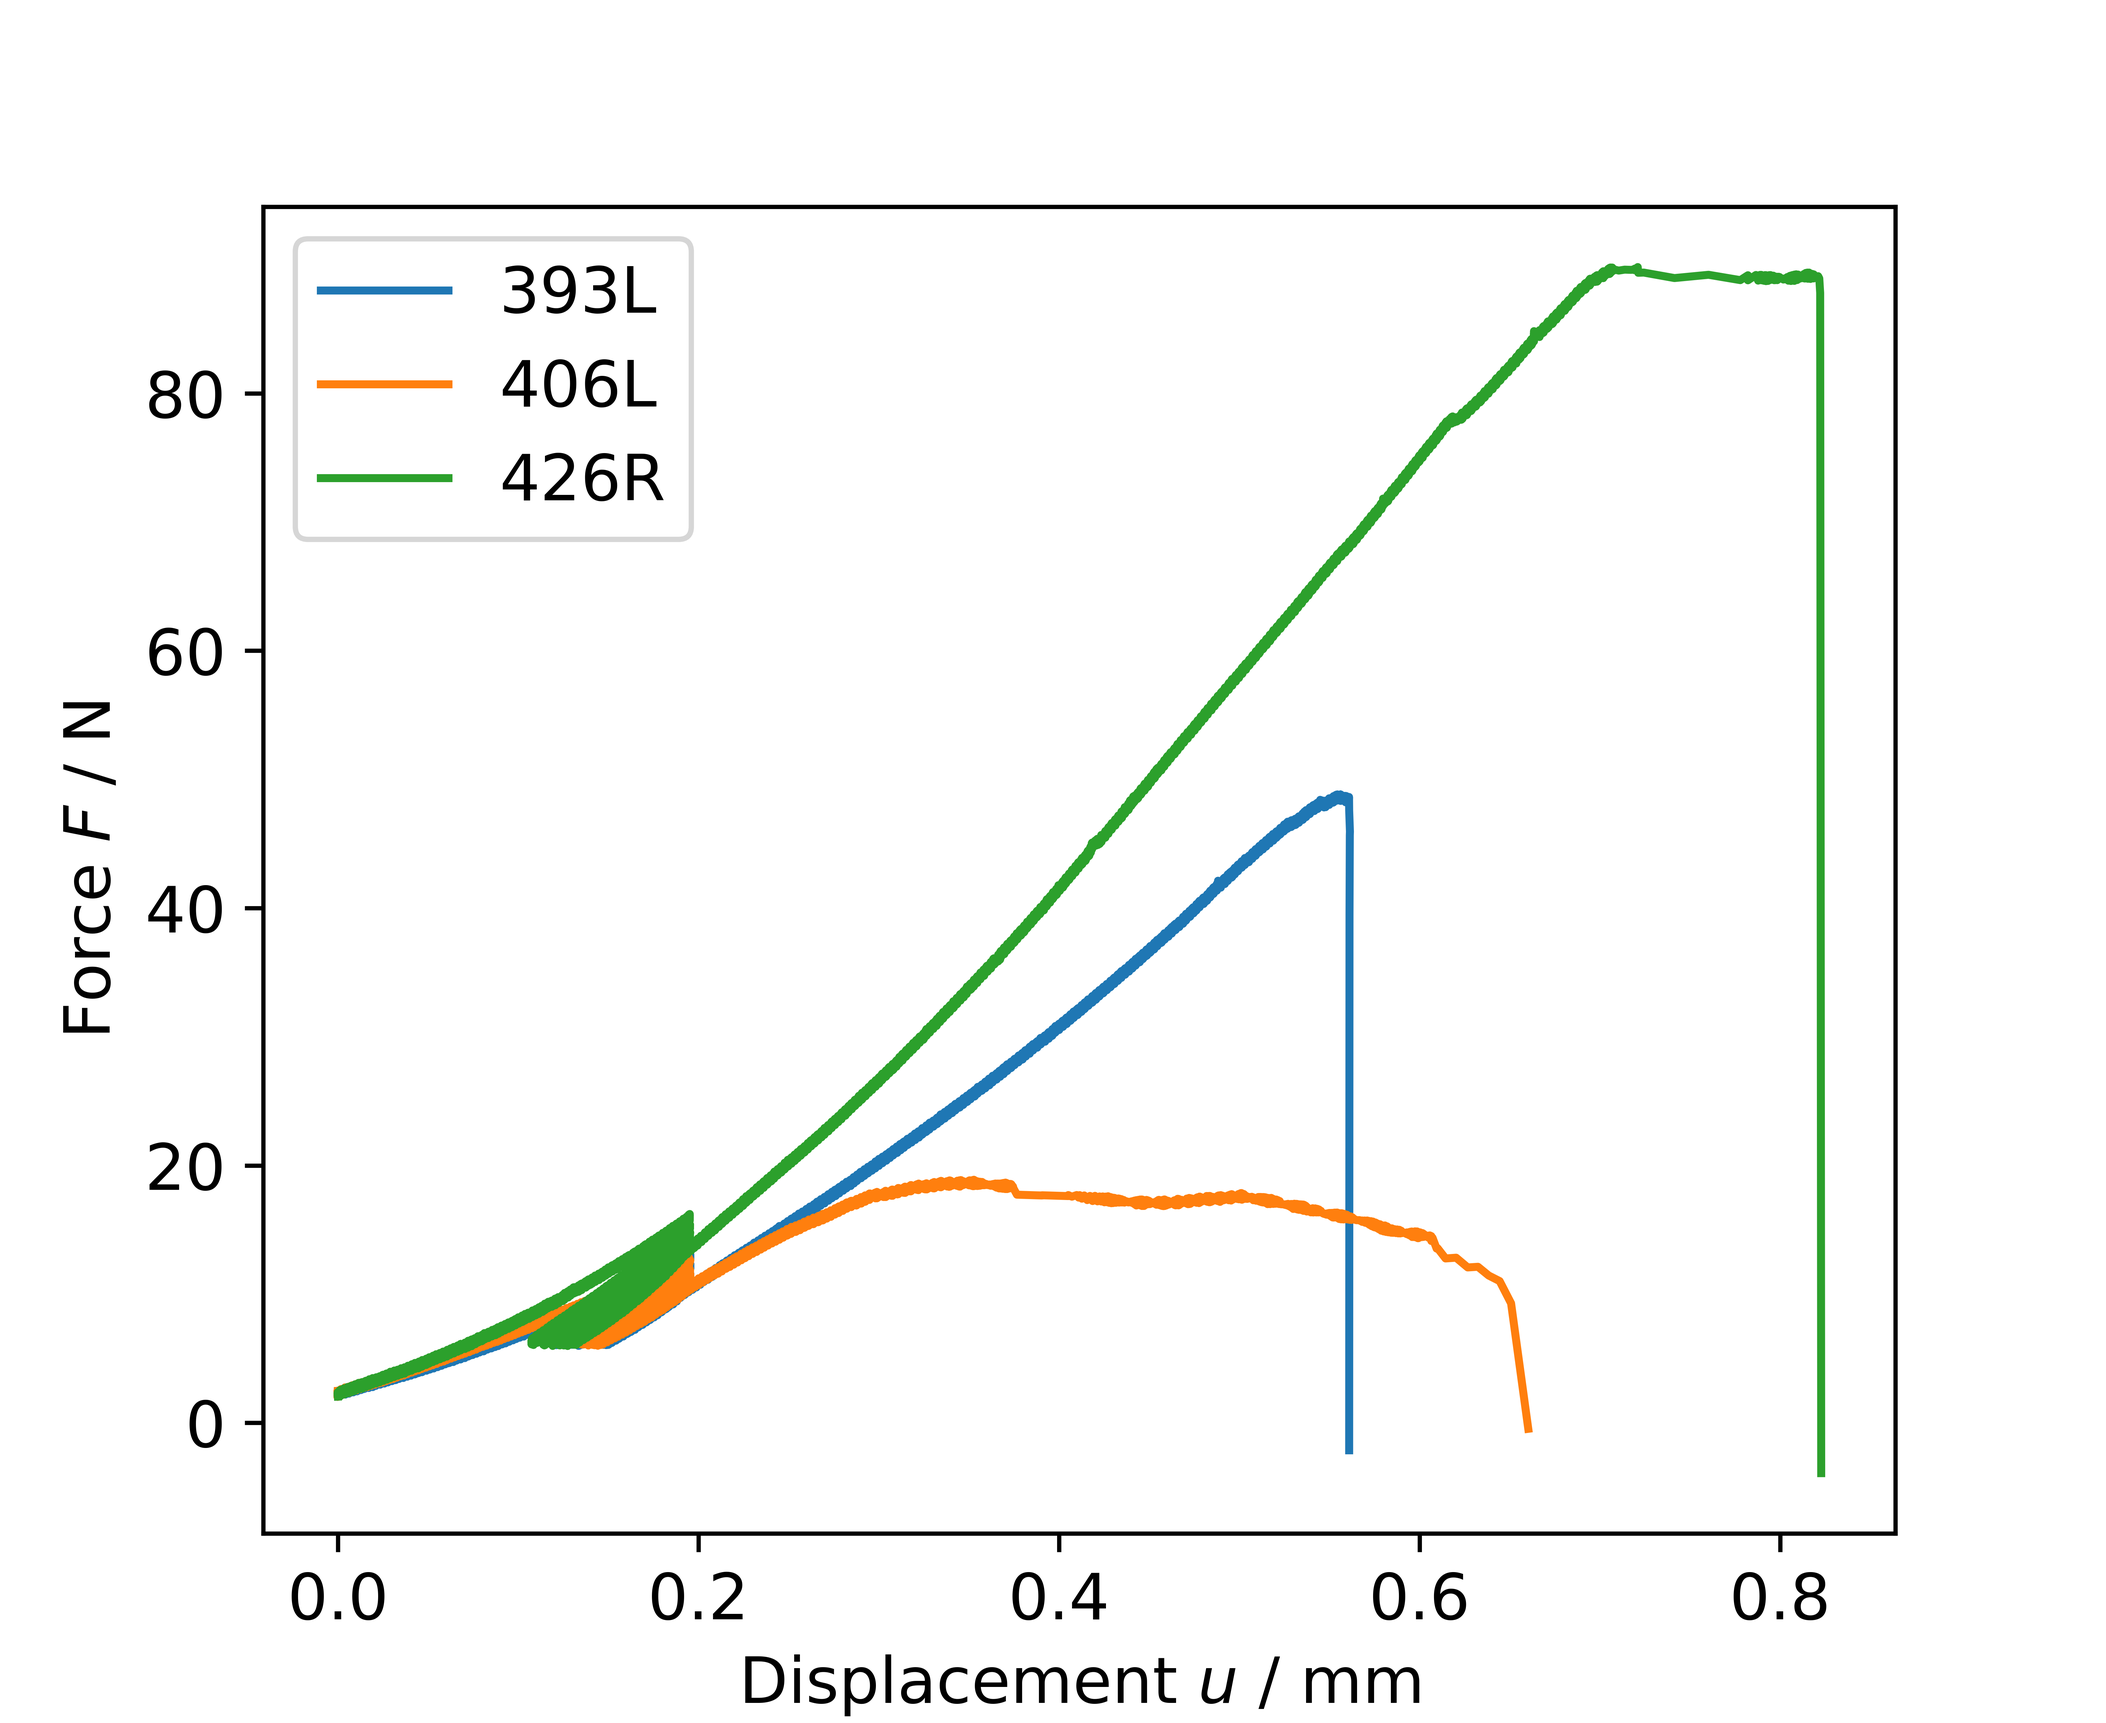
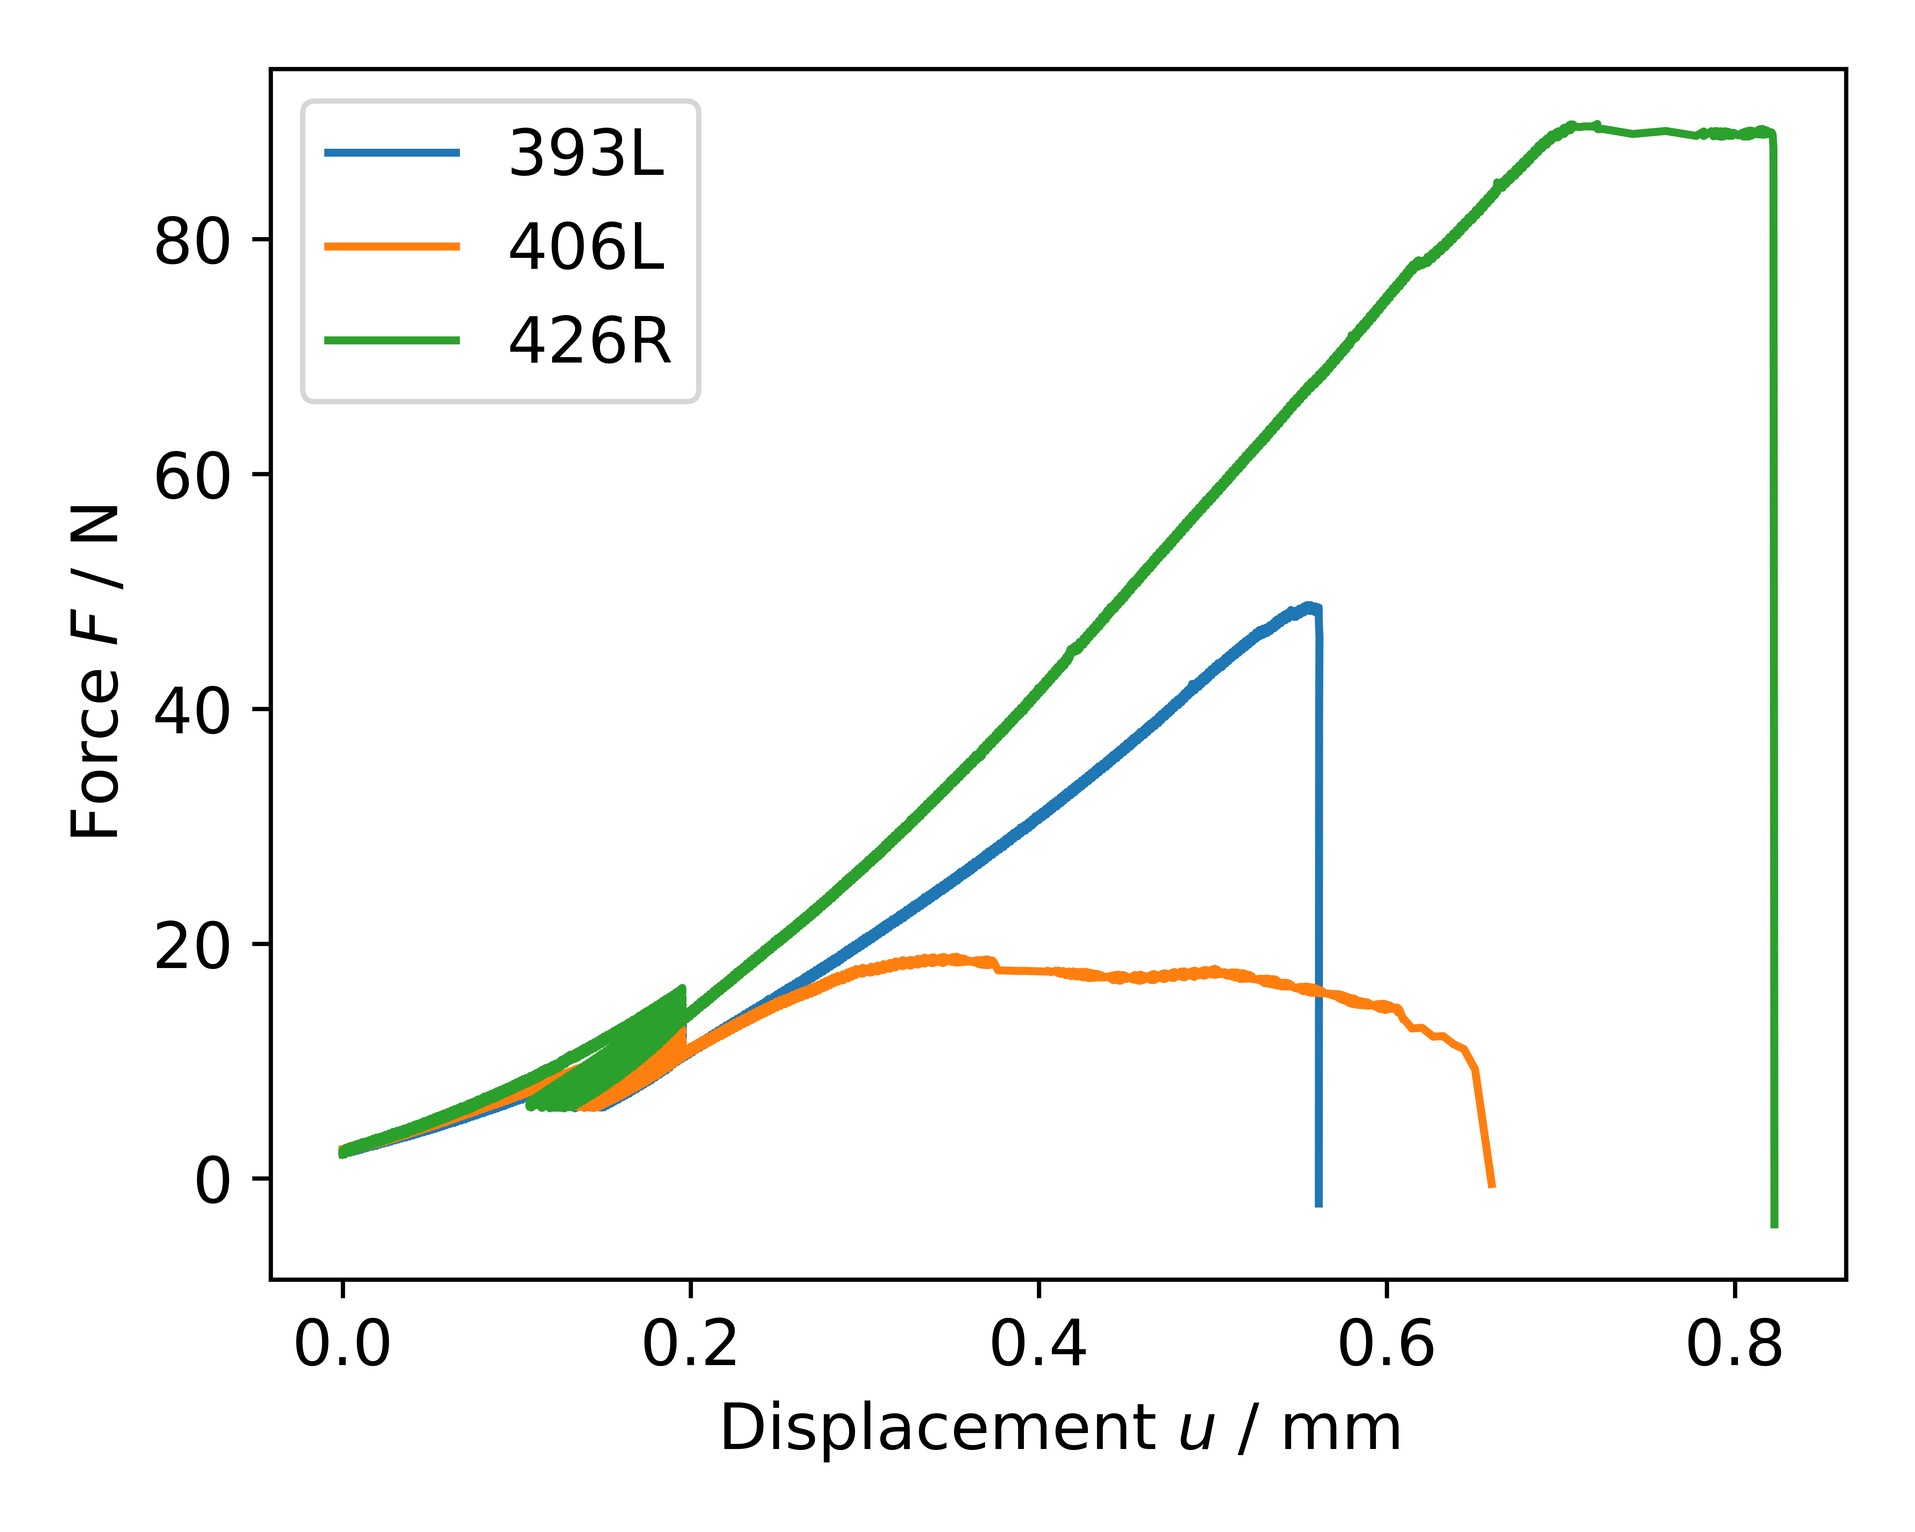
change certain symbols and expressions

diff --git a/03_Scripts/read_failure_MTS.py b/03_Scripts/read_failure_MTS.py
@@ -399,14 +399,12 @@ plt.plot(df_426R['disp_ext'][:41256], df_426R['force_lc'][:41256], label='426R')
 # plt.plot([], ' ', label='Sample ID: ' )
 plt.ylabel('Force $F$ / N')
 plt.xlabel('Displacement $u$ / mm')
+plt.subplots_adjust(left=0.17, bottom=0.15, right=0.95, top=0.95)
 plt.legend()
-plt.autoscale()
+plt.rcParams['figure.figsize'] = (5.5, 4)
 plt.rcParams.update({'font.size': 12})
 ax = plt.gca()
 ax.yaxis.set_major_locator(ticker.MaxNLocator(6))
-plt.rcParams['figure.figsize'] = (5.5, 4.5)
-plt.savefig(os.path.join(savepath_fd, 'force_disp_paper.png'), dpi=1200, format='png')
+plt.savefig(os.path.join(savepath_fd, 'force_disp_paper.png'), dpi=1200, format='png', pad_inches=0)
 plt.show()
 # plt.close()
-
-
